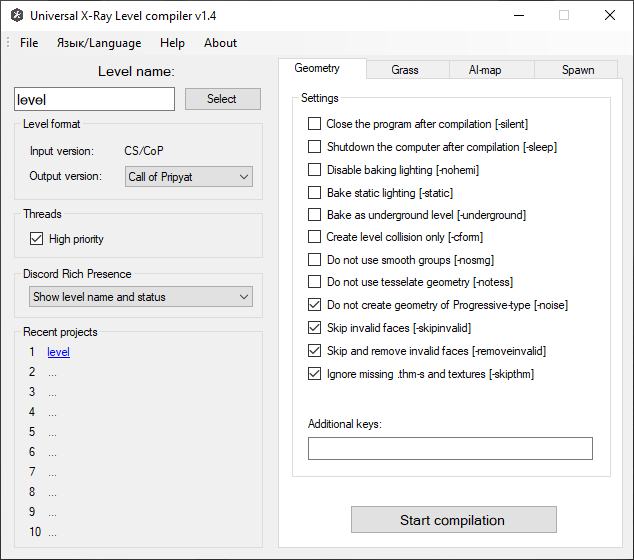
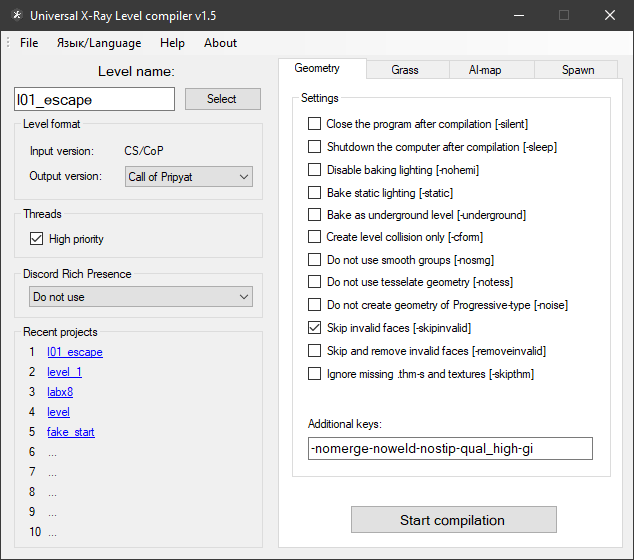
Preparing description of level creation and fixes

diff --git a/src/modding-tools/universal-x64-level-compilers.md b/src/modding-tools/universal-x64-level-compilers.md
@@ -7,7 +7,7 @@
 - Acknowledgements:
   - Abramcumner
   - K.D.
-- The version described in the article: 1.4
+- The version described in the article: 1.5
 - [Ap-pro forum topic](https://ap-pro.ru/forums/topic/3341-universalnye-kompilyatory-urovney-h64)
 
 ___
@@ -45,6 +45,9 @@ Universal level compiler that supports the compilation format for games of all s
 - Added major changes to past compilers
 - Expanded information output on some bugs
 - Fixed some crashes of the original compilers
+- Possibility to force the use of smoothing groups on a certain geometry even if the `-nosmg` key is present (To use smoothing groups on a model it is necessary to assign a compile shader with `_smg` in its name to its materials (e.g. `def_vertex\def_vertex_smg`). The compile shader itself is enough to declone from the original one and rename it with this postfix)
+- Possibility to disable tessellation on certain geometry (for example, on nosun boxes). To do this you need to name a compile shader with `_no_tess` in its name. Keep in mind that disabling tessellation can cause problems with UV
+- Ability to disable shadow baking from certain [MU models](../terminology/terminology.md#mu-multiply-usage-objects). Compile shaders of MU models must have `_no_mu_shadow` in the name. The difference between this solution and the usual disabling of the `Cast Shadow` checkbox is that in this case self-darkening of the MU model will be applied and the model will not be highlighted
 
 It requires Microsoft Visual C++ 2017 Redistributable x64 installed.
 
@@ -107,9 +110,21 @@ ___
 - Show compilation status only
 - Show level name and status
 
-### Recent Projects
-
 ### Keys
+
+#### The following keys are supported/required
+
+| Key | Description |
+---|---|
+| -? or -help | call help with a list of all startup keys |
+| -f \<NAME> | level name in `gamedata\levels\<NAME>\` |
+| -version \<NAME> | output level format (shoc/cs/cop) |
+| -fsltx \<NAME> | use custom fsgame.ltx |
+| -log_name \<NAME> | create a log file with custom name |
+| -discord | enable discord rich presence with showing project name |
+| -discord_s | enable discord rich presence without showing project name |
+| -tbb | use TBB multithreading (not recommended) |
+| -t \<NUM> | number of threads |
 
 #### Geometry Keys
 
@@ -128,6 +143,54 @@ ___
 | -removeinvalid | Skip and remove invalid faces |
 | -skipthm | Ignore missing thm-s and textures |
 
+##### Additional keys for geometry compilation
+
+| Key | Description |
+---|---|
+| -ppm \<float> | Hemi lighmaps quality (`by default: use value from SDK`) |
+| -weld_dist \<float> | Weld distance (`by default: use value from SDK`) |
+| -hemi_bias \<float> | Position bias for hemi calc (`default: 0.1, vanilla: 0.001`) |
+| -high | Higher priority for the threads |
+| -silent | Close the program after compilation |
+| -sleep | Turn off computer after compilation |
+| -static | Bake rgb+sun components of static lighting (doesn't work with -nohemi) |
+| -nohemi | Disable light and hemi calculating |
+| -noimpl | Don't bake lighting for terrain |
+| -underground | Don't bake directional light for underground levels |
+| -nomerge | Don't merge geometry |
+| -noweld | Don't weld geometry |
+| -nopool | Don't reload pool |
+| -notess | Don't tessellate geometry |
+| -nosmg | Don't use smooth groups (for cs/cop levels) |
+| -noise | Don't create geometry of Progressive-type |
+| -nocform | Don't create level.cform  |
+| -nostrip | Disable geometry striptification |
+| -dx_opt | Optimize geometry with D3DX optimizer instead of NvTriStrip |
+| -cform | Export level cform only |
+| -no_mt_cdb_pack | Disable multithreaded collision packing |
+| -gi | Enable [Radiosity](https://en.wikipedia.org/wiki/Radiosity_(computer_graphics)) phase |
+| -skipinvalid | Skip invalid faces |
+| -removeinvalid | Skip and remove invalid faces |
+| -skipthm | Skip surfaces and .thm files if they don't exist |
+| -noresize | Don't resize bigger textures to 1024x1024 |
+| -no_mt_mu | Don't run the lighting calculation for Multiple Usage objects in parallel with the main compilation |
+| -no_rnd_defl | Disable randomize deflectors |
+| -tex_rgba | Don't compress lightmap textures |
+| -tex_bc7 | Compress lightmap textures with BC7 format (`DX11 Only`) |
+| -qual_draft | set the quality of the scene in Draft (does not affect the exposed shaders) |
+| -qual_high | set the quality of the scene to High (does not affect the exposed shaders) |
+| -saveobj_base | save level objects as .obj models to temp folder (base UV) |
+| -saveobj_lmap | save level objects as .obj models to temp folder (lighmap UV)
+| -saveobj_cform | save level collision as .obj models to temp folder |
+| -force_default_shader | forced replacement of "`def_vertex`" shaders with "`default`" |
+| -force_vertex_shader | forced replacement of "`default`" shaders with "`def_vertex`" |
+| -no_bcform | Skip building rcast model and creating build.cform (works with -nohemi only) |
+| -old_merge | Use old merging algorithm |
+| -lmap_size \<NUM> | Lightmap size (`default: 1024`) |
+| -border \<NUM> | BORDER parameter, experimental key (`default: 1`) |
+| -subdiv_size \<NUM> | Box size for subdiving gemetry, experimental key (`default: 32`) |
+| -bparams_ext | Support for advanced level settings exported by Yara SDK |
+
 #### Grass
 
 | Key | Description |
@@ -137,6 +200,7 @@ ___
 | -nohemi | Disable baking lighting |
 | -static | Bake static lighting |
 | -skipthm | Ignore missing thm-s and textures |
+| -noresize | Don't resize bigger textures to 1024x1024 |
 
 #### AI-Map
 
@@ -146,6 +210,9 @@ Build Ai-Map
 ---|---|
 | -draft | Do not calculate covers |
 | -skipthm | Ignore missing thm-s and textures |
+| -f \<NAME> | Make AI-map |
+| -large_aimap | Build for large AI-map (`requires a modified game engine and SDK to work!`) |
+| -force_large_aimap | Force opening of AI-grid of original format with a large number of AI-nodes (more than 8 million). The key is experimental, correctness of AI-grid is not guaranteed. For correct export you need AI-grid of new format |
 
 Check Ai-Map
 
@@ -158,7 +225,10 @@ Check Ai-Map
 | Key | Description |
 ---|---|
 | -no_separator_check | Disable some conflicts |
-| -large_aimap | Build for large AI-map (requires a modified game engine and SDK to work!) |
+| -insert_graph | Enable adding graphs to common spawn when building a SoC Level (Key for SoC only) |
+| -actor_level \<level_name> | Select a level to spawn an actor. Avoids the routine of manually deleting an actor from each level. Only the actor from the selected level will be spawned, the others will be ignored. If it is not on the level, it will be automatically created in zero coordinates |
+| -no_levels_section | Ignore the list of levels from the [levels] section. Allows not to write each level to this section. |
+| -skip_invalid_class | Skip the "Can't create entity" crash. All objects with invalid and unknown classes will be ignored and will not be included in the common spawn |
 
 ##### Additional spawns
 
@@ -175,46 +245,3 @@ Check Ai-Map
 | by default | Renames the .spawn file by default (name chosen from the folder name) |
 
 - Spawn name - Spawn name
-
-### The following keys are supported/required
-
-| Key | Description |
----|---|
-| -? or -help | call help with a list of all startup keys |
-| -f \<NAME> | level name in GameData\levels\<NAME>\ |
-| -version \<NAME> | output level format (shoc/cs/cop) |
-| -fsltx \<NAME> | use custom fsgame.ltx |
-| -log_name \<NAME> | create a log file with custom name |
-| -discord | enable discord rich presence with showing project name |
-| -discord_s | enable discord rich presence without showing project name |
-| -tbb | use TBB multithreading (not recommended) |
-| -t \<NUM> | number of threads |
-
-### Additional keys for geometry compilation
-
-| Key | Description |
----|---|
-| -tex_rgba | do not use compression for stored textures |
-| -tex_bc7 | use BC7 compression for stored textures (format is only supported on DX11) |
-| -nocform | skips the creation of level.cform |
-| -no_mt_cdb_pack | disable multithreaded collision packing |
-| -noweld | disable small triangles welding |
-| -nomerge | skip the Merging geometry stage |
-| -noimpl | don't bake lighting for terrain |
-| -noresize | don't resize bigger textures to 1024x1024 |
-| -nostrip | disable geometry optimization and streamlining |
-| -dx_opt | turn on D3DX optimizer geometry optimization instead of NvTriStrip |
-| -gi | turn on the [Radiosity](https://en.wikipedia.org/wiki/Radiosity_(computer_graphics)) phase |
-| -no_mt_mu | don't run the lighting calculation for Multiple Usage objects in parallel with the main compilation |
-| -high | higher priority for the threads |
-| -saveobj_base | save level objects as .obj models to temp folder (base UV) |
-| -saveobj_lmap | save level objects as .obj models to temp folder (lighmap UV)
-| -saveobj_cform | save level collision as .obj models to temp folder |
-| -force_default_shader | forced replacement of "`def_vertex`" shaders with "`default`" |
-| -force_vertex_shader | forced replacement of "`default`" shaders with "`def_vertex`" |
-| -qual_draft | set the quality of the scene in Draft (does not affect the exposed shaders) |
-| -qual_high | set the quality of the scene to High (does not affect the exposed shaders) |
-| -ppm \<float> | hemi lighmaps quality (`by default: use value from SDK`) |
-| -weld_dist \<float> | weld distance (`by default: use value from SDK`) |
-| -hemi_bias \<float> | position bias for hemi calc (`default: 0.1, vanilla: 0.001`) |
-| -insert_graph | enable adding graphs to common spawn when building a SoC Level (Key for SoC only) |

diff --git a/src/blender/advanced-settings.md b/src/blender/advanced-settings.md
@@ -457,57 +457,3 @@ ___
 In this section you can disable or enable import/export formats
 
 ![formats centered](/src/blender/blender-images/panels/Formats.png)
-
-# Panels
-
-## Scene Properties
-
-### X-Ray Engine: Project
-
-![project centered](/src/blender/blender-images/panels/Project.png)
-
-| Button | Description |
----|---|
-| Export Root | The root folder for export |
-| Texture Names from Image Paths | Generate Texture Names from image paths:<br> gamedata/textures/**texture_name**.*extension* |
-
-___
-
-## Material Properties
-
-### X-Ray Engine: Material
-
-![material centered](/src/blender/blender-images/panels/Meterial.png)
-
-| Button | Note |
----|---|
-| Two Sided | The model will be drawn from the outside and inside. The number of polygons in the model is doubled. |
-| Shader | [list of shaders](../../shaders/shaders-list/shaders-list.md) |
-| Compile | [list of compile shaders](../../shaders/shaders-list/compiler-shaders-list.md) |
-| Material | [list of materials](../../shaders/shaders-list/materials-list.md) |
-
-___
-
-## Bone Properties
-
-### X-Ray Engine: Bone
-
-![bone centered](/src/blender/blender-images/panels/Bone.png)
-
-| Button | Description | Note |
----|---|---|
-| Exportable | Will the bone be exported | - |
-| Lenght |  |  |
-| Material | Material | [list of materials](../../shaders/shaders-list/materials-list.md) |
-| Shape Type | Shape type for [ODE](../../terminology/terminology.md#ode) | None<br> Box<br> Sphere<br> Cylinder |
-| Edit Shape | Edit Shape | - |
-| No Pickable | <acronym title="Simply put, a beam of light (read DXR for more)">Ray Query Rays</acronym>, hit wallmarks will skip this element |  |
-| No Physics | The engine ignores shape physics | - |
-| Remove After Break | When activated, all dice will start a "remove_time" timer from the config, after which the object will be removed | Example: wooden box |
-| No Fog Collider | Volumetric Fog will ignore this element | - |
-| Joint Type | Joint type for [ODE](../../terminology/terminology.md#ode) | None<br> Rigid<br> Cloth<br> Joint<br> Wheel<br> Slider |
-| Breakable |  |  |
-| Mass | Bone mass | - |
-| Center of Mass | Center of Mass | - |
-| Edit Center | Edit Center of Mass | - |
-

diff --git a/src/blender/x-ray-addon-panels.md b/src/blender/x-ray-addon-panels.md
@@ -1,0 +1,52 @@
+# Panels
+
+## Scene Properties
+
+### X-Ray Engine: Project
+
+![project centered](/src/blender/blender-images/panels/Project.png)
+
+| Button | Description |
+---|---|
+| Export Root | The root folder for export |
+| Texture Names from Image Paths | Generate Texture Names from image paths:<br> gamedata/textures/**texture_name**.*extension* |
+
+___
+
+## Material Properties
+
+### X-Ray Engine: Material
+
+![material centered](/src/blender/blender-images/panels/Meterial.png)
+
+| Button | Note |
+---|---|
+| Two Sided | The model will be drawn from the outside and inside. The number of polygons in the model is doubled. |
+| Shader | [list of shaders](../../shaders/shaders-list/shaders-list.md) |
+| Compile | [list of compile shaders](../../shaders/shaders-list/compiler-shaders-list.md) |
+| Material | [list of materials](../../shaders/shaders-list/materials-list.md) |
+
+___
+
+## Bone Properties
+
+### X-Ray Engine: Bone
+
+![bone centered](/src/blender/blender-images/panels/Bone.png)
+
+| Button | Description | Note |
+---|---|---|
+| Exportable | Will the bone be exported | - |
+| Lenght |  |  |
+| Material | Material | [list of materials](../../shaders/shaders-list/materials-list.md) |
+| Shape Type | Shape type for [ODE](../../terminology/terminology.md#ode) | None<br> Box<br> Sphere<br> Cylinder |
+| Edit Shape | Edit Shape | - |
+| No Pickable | <acronym title="Simply put, a beam of light (read DXR for more)">Ray Query Rays</acronym>, hit wallmarks will skip this element |  |
+| No Physics | The engine ignores shape physics | - |
+| Remove After Break | When activated, all dice will start a "remove_time" timer from the config, after which the object will be removed | Example: wooden box |
+| No Fog Collider | Volumetric Fog will ignore this element | - |
+| Joint Type | Joint type for [ODE](../../terminology/terminology.md#ode) | None<br> Rigid<br> Cloth<br> Joint<br> Wheel<br> Slider |
+| Breakable |  |  |
+| Mass | Bone mass | - |
+| Center of Mass | Center of Mass | - |
+| Edit Center | Edit Center of Mass | - |

diff --git a/src/terminology/terminology.md b/src/terminology/terminology.md
@@ -58,6 +58,22 @@ Distinguishing features:
 
 One of the methods of dynamic level of detail
 
+## MU (Multiply Usage) Objects
+
+Needed for automatic creation of LOD at compilation stage
+
+## HOM (Hierarchical Occlusion Mapping)
+
+[One way to optimize the level](https://www.google.com/search?q=Hierarchical+Occlusion+Mapping)
+
+## Sector
+
+Sectors are a connected empty closed area bounded by static geometry and portals. In X-Ray 3D Engine, level geometry is not involved in sector creation, it uses HOM objects for this purpose.
+
+## Portal
+
+Portals are "windows" through which (and only through which) an observer can see the insides of other sectors.
+
 ## *object*_hud
 
 HUD (Head-Up Display) - is a set of graphical interfaces and decorative elements located in the foreground and/or in the game world, which are designed to clearly and quickly convey to the player the necessary information from the game at a given point in time, without interfering with the gameplay experience.

diff --git a/src/SUMMARY.md b/src/SUMMARY.md
@@ -131,6 +131,7 @@ ___
     - [Modified THM Editor](modding-tools/thm-editor-by-valerok.md)
   - [Bump Generator](modding-tools/bump-generator.md)
   - [Sound Attribute Viewer And Tweaker](modding-tools/savandt.md)
+  - [Upgrade Editor](modding-tools/upgrade-editor.md)
   - [Modified OMF Editor](modding-tools/omf-editor-by-valerok.md)
   - [Modified OGF Editor](modding-tools/ogf-editor-by-valerok.md)
   - [X-Ray Export Tool](modding-tools/xray-export-tool.md)

diff --git a/src/modding-tools/stalker-studio.md b/src/modding-tools/stalker-studio.md
@@ -1,0 +1,12 @@
+# Stalker Studio
+
+- Program Developers:
+  - Kirill Sukhinin
+- The version described in the article: [0.7]()
+- [Ap-pro forum topic]()
+
+___
+
+## About
+
+## Features
